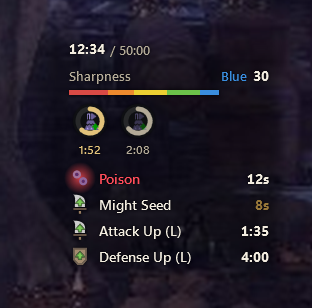
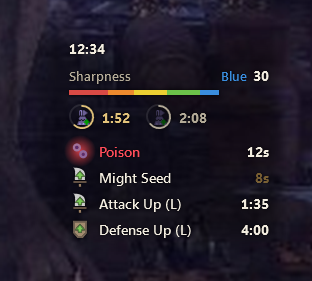
Time limit with an hourglass on the team widget, not the buffs widget; mantle rings the size of a buff row

diff --git a/SmartHunter/Ui/Resources/Default.xaml b/SmartHunter/Ui/Resources/Default.xaml
@@ -323,6 +323,31 @@
         </Viewbox>
     </DataTemplate>
 
+    <!--The same ring with a hairline stroke, for an icon inside a small circle-->
+    <DataTemplate x:Key="A_DataTemplate_ThinRing" DataType="{x:Type coreData:Progress}">
+        <Viewbox>
+            <Grid Width="14" Height="14">
+                <Ellipse Width="13" Height="13" StrokeThickness="1" Stroke="{StaticResource B_Track}" />
+                <Canvas Width="0" Height="0" VerticalAlignment="Center" HorizontalAlignment="Center">
+                    <Canvas.RenderTransform>
+                        <TranslateTransform X="-6" Y="-6" />
+                    </Canvas.RenderTransform>
+                    <Path StrokeThickness="1" StrokeStartLineCap="Round" StrokeEndLineCap="Round" Stroke="{Binding Foreground, RelativeSource={RelativeSource AncestorType={x:Type ContentControl}}}">
+                        <Path.Data>
+                            <PathGeometry>
+                                <PathFigure StartPoint="6,0">
+                                    <ArcSegment SweepDirection="Clockwise" Size="6,6"
+                                                Point="{Binding Angle, ConverterParameter=6, Converter={StaticResource A_Converter_AngleToPoint}}"
+                                                IsLargeArc="{Binding Angle, Converter={StaticResource A_Converter_AngleToIsLargeArc}}" />
+                                </PathFigure>
+                            </PathGeometry>
+                        </Path.Data>
+                    </Path>
+                </Canvas>
+            </Grid>
+        </Viewbox>
+    </DataTemplate>
+
     <DataTemplate x:Key="A_Graphic_Crown">
         <Viewbox>
             <Canvas Width="512" Height="512">
@@ -762,6 +787,7 @@
         hunter's colour as far as their damage reaches against the top hunter.-->
 
     <Geometry x:Key="G_Stopwatch">M6.5,0.5 L9.5,0.5 L9.5,2 L6.5,2 Z M8,3 A6,6 0 1 1 7.99,3 Z M8,4.6 A4.4,4.4 0 1 0 8.01,4.6 Z M7.3,6 L8.7,6 L8.7,9.6 L7.3,9.6 Z</Geometry>
+    <Geometry x:Key="G_Hourglass">M3,1 L13,1 L13,2.5 L3,2.5 Z M3,13.5 L13,13.5 L13,15 L3,15 Z M4,2.5 L12,2.5 C12,5.5 9.5,6.8 8.8,8 C9.5,9.2 12,10.5 12,13.5 L4,13.5 C4,10.5 6.5,9.2 7.2,8 C6.5,6.8 4,5.5 4,2.5 Z</Geometry>
     <GeometryGroup x:Key="G_Skull" FillRule="EvenOdd">
         <PathGeometry Figures="M8,1 C4.2,1 1.6,3.6 1.6,7 C1.6,9.1 2.6,10.6 4.2,11.5 L4.2,13.8 C4.2,14.5 4.7,15 5.4,15 L10.6,15 C11.3,15 11.8,14.5 11.8,13.8 L11.8,11.5 C13.4,10.6 14.4,9.1 14.4,7 C14.4,3.6 11.8,1 8,1 Z" />
         <EllipseGeometry Center="5.5,7.6" RadiusX="1.7" RadiusY="1.8" />
@@ -1014,17 +1040,16 @@
     <!--Specialized tool (mantle, booster): icon in a ring with the time under it. Gold and draining while it's on;
         dim and filling back up while it recharges.-->
     <DataTemplate DataType="{x:Type data:SpecializedTool}">
-        <StackPanel x:Name="Root" Width="42" Margin="0 0 6 0">
+        <StackPanel x:Name="Root" Orientation="Horizontal" Margin="0 0 16 0">
             <StackPanel.RenderTransform>
                 <TranslateTransform />
             </StackPanel.RenderTransform>
-            <Grid Width="34" Height="34">
-                <Ellipse Fill="#CC101114" />
-                <ContentControl x:Name="Ring" Content="{Binding Ring}" ContentTemplate="{StaticResource A_DataTemplate_CircleProgress}" Foreground="{StaticResource B_Accent}" />
-                <Image x:Name="Icon" Source="{Binding IconKey, Converter={StaticResource A_Converter_IconKeyToImage}}" Width="18" Height="18" />
+            <Grid Width="26" Height="26">
+                <ContentControl x:Name="Ring" Content="{Binding Ring}" ContentTemplate="{StaticResource A_DataTemplate_ThinRing}" Foreground="{StaticResource B_Accent}" />
+                <Image x:Name="Icon" Source="{Binding IconKey, Converter={StaticResource A_Converter_IconKeyToImage}}" Width="16" Height="16" />
             </Grid>
-            <TextBlock x:Name="Time" Text="{Binding Seconds, Converter={StaticResource A_Converter_SecondsToClock}}" Style="{StaticResource T_Cell}" FontSize="12"
-                       Foreground="{StaticResource B_Accent}" HorizontalAlignment="Center" Margin="0 3 0 0" />
+            <TextBlock x:Name="Time" Text="{Binding Seconds, Converter={StaticResource A_Converter_SecondsToClock}}" Style="{StaticResource T_Value}" MinWidth="0"
+                       Foreground="{StaticResource B_Accent}" VerticalAlignment="Center" Margin="7 0 0 0" />
         </StackPanel>
         <DataTemplate.Triggers>
             <EventTrigger RoutedEvent="FrameworkElement.Loaded">
@@ -1167,10 +1192,9 @@
             <Grid x:Name="Layer">
             <Border x:Name="Scrim" Background="{StaticResource B_Scrim}" Opacity="{Binding ShadeOpacity, Source={x:Static viewModels:OverlayViewModel.Instance}}" OpacityMask="{StaticResource B_ScrimFeather}" />
             <StackPanel x:Name="Body" Effect="{StaticResource A_Effect_Halo}" MinWidth="200" Margin="18 14 44 14">
-                <!--Quest clock: elapsed / limit, only during a quest-->
+                <!--Quest clock, only during a quest. The limit is on the Team widget.-->
                 <StackPanel x:Name="HuntLine" Orientation="Horizontal" Margin="0 0 0 8">
                     <TextBlock Text="{Binding Hunt.Clock}" Style="{StaticResource T_Value}" MinWidth="0" />
-                    <TextBlock Text="{Binding Hunt.ClockLimit}" Style="{StaticResource T_Muted}" Margin="5 0 0 0" VerticalAlignment="Bottom" />
                 </StackPanel>
                 <ContentControl Content="{Binding Sharpness}" />
                 <ItemsControl x:Name="Tools" ItemsSource="{Binding Tools}" Margin="0 0 0 8">
@@ -1242,6 +1266,8 @@
                     <StackPanel x:Name="Clock" Orientation="Horizontal" Visibility="Collapsed">
                         <Path Data="{StaticResource G_Stopwatch}" Fill="{StaticResource B_TextMuted}" Width="14" Height="15" Stretch="Uniform" VerticalAlignment="Center" Margin="0 0 6 0" />
                         <TextBlock Text="{Binding Clock}" Style="{StaticResource T_Value}" MinWidth="0" />
+                        <Path Data="{StaticResource G_Hourglass}" Fill="{StaticResource B_TextMuted}" Width="11" Height="15" Stretch="Uniform" VerticalAlignment="Center" Margin="16 0 6 0" />
+                        <TextBlock Text="{Binding ClockLimit}" Style="{StaticResource T_Muted}" VerticalAlignment="Center" />
                     </StackPanel>
                     <StackPanel x:Name="Deaths" DockPanel.Dock="Right" Orientation="Horizontal" Visibility="Collapsed">
                         <Path Data="{StaticResource G_Skull}" Fill="{StaticResource B_TextMuted}" Width="14" Height="15" Stretch="Uniform" VerticalAlignment="Center" Margin="0 0 6 0" />

diff --git a/SmartHunter/Game/Helpers/MhwHelper.cs b/SmartHunter/Game/Helpers/MhwHelper.cs
@@ -482,7 +482,7 @@ namespace SmartHunter.Game.Helpers
             bool inQuest = quest != 0 && MemoryHelper.Read<int>(process, quest + 0x54) == 2;
             bool clockOk = inQuest && limit > 0 && left >= 0 && left <= limit;
             hunt.Clock = clockOk ? HuntInfo.Format(limit - left) : null;
-            hunt.ClockLimit = clockOk ? "/ " + HuntInfo.Format(limit) : null;
+            hunt.ClockLimit = clockOk ? HuntInfo.Format(limit) : null;
             hunt.ElapsedSeconds = clockOk ? limit - left : 0;
 
             // Party deaths and the limit that fails the quest (HunterPie v2's MHWQuestDataStructure)

diff --git a/SmartHunter/Game/Data/ViewModels/OverlayViewModel.cs b/SmartHunter/Game/Data/ViewModels/OverlayViewModel.cs
@@ -229,7 +229,7 @@ namespace SmartHunter.Game.Data.ViewModels
 
             PlayerWidget.Context.Sharpness.Update(new[] { 60, 100, 150, 200, 260, 0, 0 }, 230, 260);
             PlayerWidget.Context.Hunt.Clock = "12:34";
-            PlayerWidget.Context.Hunt.ClockLimit = "/ 50:00";
+            PlayerWidget.Context.Hunt.ClockLimit = "50:00";
 
             CalloutWidget.Context.Callouts.Add(new MonsterCallout { Name = "Rathalos", IsCapturable = true, IsEnraged = true });
             CalloutWidget.Context.Callouts.Add(new MonsterCallout { Name = "Pukei-Pukei", IsExhausted = true });

diff --git a/SmartHunter/Game/Data/HuntInfo.cs b/SmartHunter/Game/Data/HuntInfo.cs
@@ -4,7 +4,7 @@ using SmartHunter.Core.Data;
 
 namespace SmartHunter.Game.Data
 {
-    // The quest clock (time elapsed and the quest's limit) and the party's deaths. Null outside a quest.
+    // The quest clock (time elapsed, and the quest's limit for the Team widget) and the party's deaths. Null outside a quest.
     public class HuntInfo : Bindable
     {
         // For damage per second; 0 outside a quest

diff --git a/README.md b/README.md
@@ -64,7 +64,7 @@ To remove it, uninstall it like any app: **Settings > Apps**, or Control Panel. 
 
 <img src="docs/team-widget.png" alt="Team damage widget" align="right" width="340"/>
 
-- Quest clock and party deaths (`1/3`) at the top
+- Quest clock, time limit and party deaths (`1/3`) at the top
 - For up to 4 hunters: weapon, rank, damage, damage per second and share of the party's damage
 - A green or red arrow while a hunter's share is rising or falling; each row fills with their colour
 - Counts **every monster**, including expeditions, when your friends run Aether too
